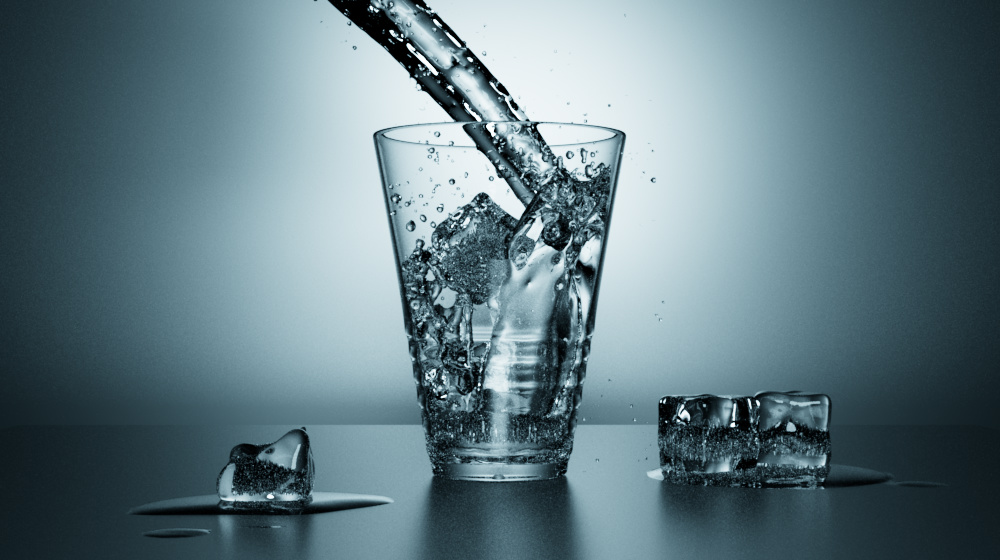
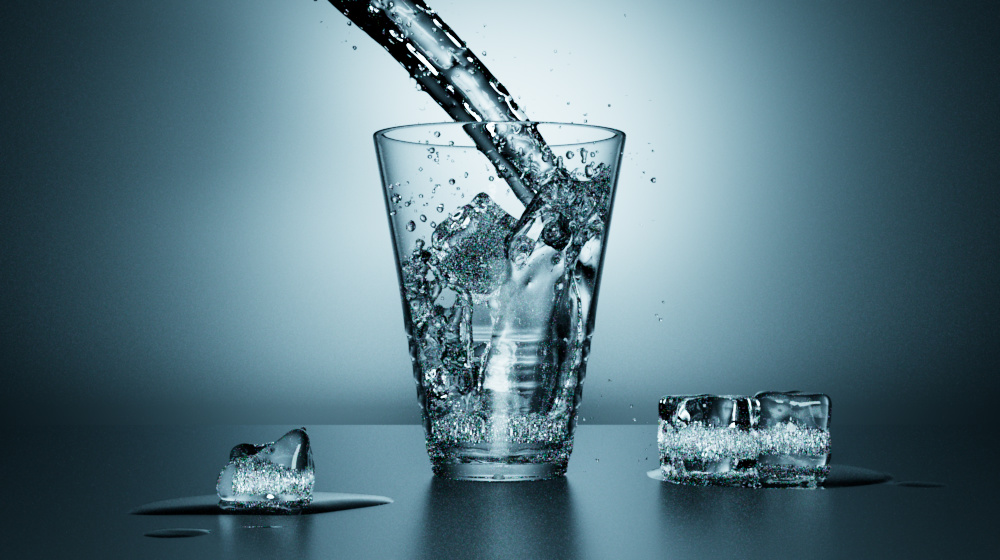
Fix for air bubbles inside ice
Reverse the winding order of triangle meshes with eta less than 1 in
tungsten data, so that front faces are consistently on the air side
of the currently hardcoded air/water dielectric interface.

diff --git a/apps/trace/src/tungsten.rs b/apps/trace/src/tungsten.rs
@@ -3,7 +3,7 @@ use bytemuck::{Pod, Zeroable};
 use caldera::*;
 use serde::{Deserialize, Serialize};
 use std::path::Path;
-use std::{fs::File, io::BufReader, io::Read};
+use std::{fs::File, io::BufReader, io::Read, mem};
 
 #[derive(Debug, Clone, Copy, Serialize, Deserialize)]
 #[serde(untagged)]
@@ -72,6 +72,7 @@ struct Bsdf {
     material: Option<Material>,
     eta: Option<f32>,
     k: Option<f32>,
+    ior: Option<f32>,
 }
 
 #[derive(Debug, Serialize, Deserialize)]
@@ -222,7 +223,7 @@ struct Triangle {
     mat: i32,
 }
 
-fn load_mesh<P: AsRef<Path>>(path: P, extra_scale: Option<Vec3>) -> scene::Geometry {
+fn load_mesh<P: AsRef<Path>>(path: P, extra_scale: Option<Vec3>, reverse_winding: bool) -> scene::Geometry {
     let mut reader = BufReader::new(File::open(path).unwrap());
 
     let mut vertex_count = 0u64;
@@ -240,6 +241,15 @@ fn load_mesh<P: AsRef<Path>>(path: P, extra_scale: Option<Vec3>) -> scene::Geome
     reader
         .read_exact(bytemuck::cast_slice_mut(triangles.as_mut_slice()))
         .unwrap();
+
+    if reverse_winding {
+        for vtx in vertices.iter_mut() {
+            vtx.normal = -vtx.normal;
+        }
+        for tri in triangles.iter_mut() {
+            mem::swap(&mut tri.indices.x, &mut tri.indices.z);
+        }
+    }
 
     if let Some(extra_scale) = extra_scale {
         for v in vertices.iter_mut() {
@@ -292,7 +302,7 @@ pub fn load_scene<P: AsRef<Path>>(path: P, illuminant: scene::Illuminant) -> sce
         })
     };
 
-    let load_material = |bsdf_ref: &BsdfRef, emission: Option<scene::Emission>| {
+    let load_material = |bsdf_ref: &BsdfRef| {
         let bsdf = match bsdf_ref {
             BsdfRef::Inline(bsdf) => bsdf,
             BsdfRef::Named(name) => scene
@@ -355,11 +365,15 @@ pub fn load_scene<P: AsRef<Path>>(path: P, illuminant: scene::Illuminant) -> sce
             },
             _ => scene::Surface::Diffuse,
         };
-        scene::Material {
-            reflectance,
-            surface,
-            emission,
-        }
+        let reverse_winding = bsdf.ior.map(|ior| ior < 1.0).unwrap_or(false);
+        (
+            scene::Material {
+                reflectance,
+                surface,
+                emission: None,
+            },
+            reverse_winding,
+        )
     };
 
     let mut output = scene::Scene::default();
@@ -377,7 +391,8 @@ pub fn load_scene<P: AsRef<Path>>(path: P, illuminant: scene::Illuminant) -> sce
                 };
                 let area = (size.x * size.y * world_from_local.scale * world_from_local.scale).abs();
 
-                let material = load_material(primitive.bsdf.as_ref().unwrap(), load_emission(primitive, area));
+                let (mut material, _) = load_material(primitive.bsdf.as_ref().unwrap());
+                material.emission = load_emission(primitive, area);
 
                 let geometry_ref = output.add_geometry(geometry);
                 let transform_ref = output.add_transform(scene::Transform::new(world_from_local));
@@ -395,7 +410,8 @@ pub fn load_scene<P: AsRef<Path>>(path: P, illuminant: scene::Illuminant) -> sce
                 };
                 let area = (PI * radius * radius * world_from_local.scale * world_from_local.scale).abs();
 
-                let material = load_material(primitive.bsdf.as_ref().unwrap(), load_emission(primitive, area));
+                let (mut material, _) = load_material(primitive.bsdf.as_ref().unwrap());
+                material.emission = load_emission(primitive, area);
 
                 let geometry_ref = output.add_geometry(geometry);
                 let transform_ref = output.add_transform(scene::Transform::new(world_from_local));
@@ -405,16 +421,19 @@ pub fn load_scene<P: AsRef<Path>>(path: P, illuminant: scene::Illuminant) -> sce
             PrimitiveType::Mesh => {
                 let (world_from_local, extra_scale) = primitive.transform.decompose();
 
+                let (mut material, reverse_winding) = load_material(&primitive.bsdf.as_ref().unwrap());
+
                 let mesh = load_mesh(
                     path.as_ref().with_file_name(primitive.file.as_ref().unwrap()),
                     extra_scale,
+                    reverse_winding,
                 );
+
                 let area = match mesh {
                     scene::Geometry::TriangleMesh { area, .. } => area,
                     _ => panic!("expected a mesh"),
                 };
-
-                let material = load_material(&primitive.bsdf.as_ref().unwrap(), load_emission(primitive, area));
+                material.emission = load_emission(primitive, area);
 
                 let geometry_ref = output.add_geometry(mesh);
                 let transform_ref = output.add_transform(scene::Transform::new(world_from_local));
@@ -431,7 +450,8 @@ pub fn load_scene<P: AsRef<Path>>(path: P, illuminant: scene::Illuminant) -> sce
                 let radius = world_from_local.scale.abs();
                 let area = 4.0 * PI * radius * radius;
 
-                let material = load_material(&primitive.bsdf.as_ref().unwrap(), load_emission(primitive, area));
+                let (mut material, _) = load_material(&primitive.bsdf.as_ref().unwrap());
+                material.emission = load_emission(primitive, area);
 
                 let geometry_ref = output.add_geometry(scene::Geometry::Sphere { centre, radius });
                 let transform_ref = output.add_transform(scene::Transform::new(world_from_local));
